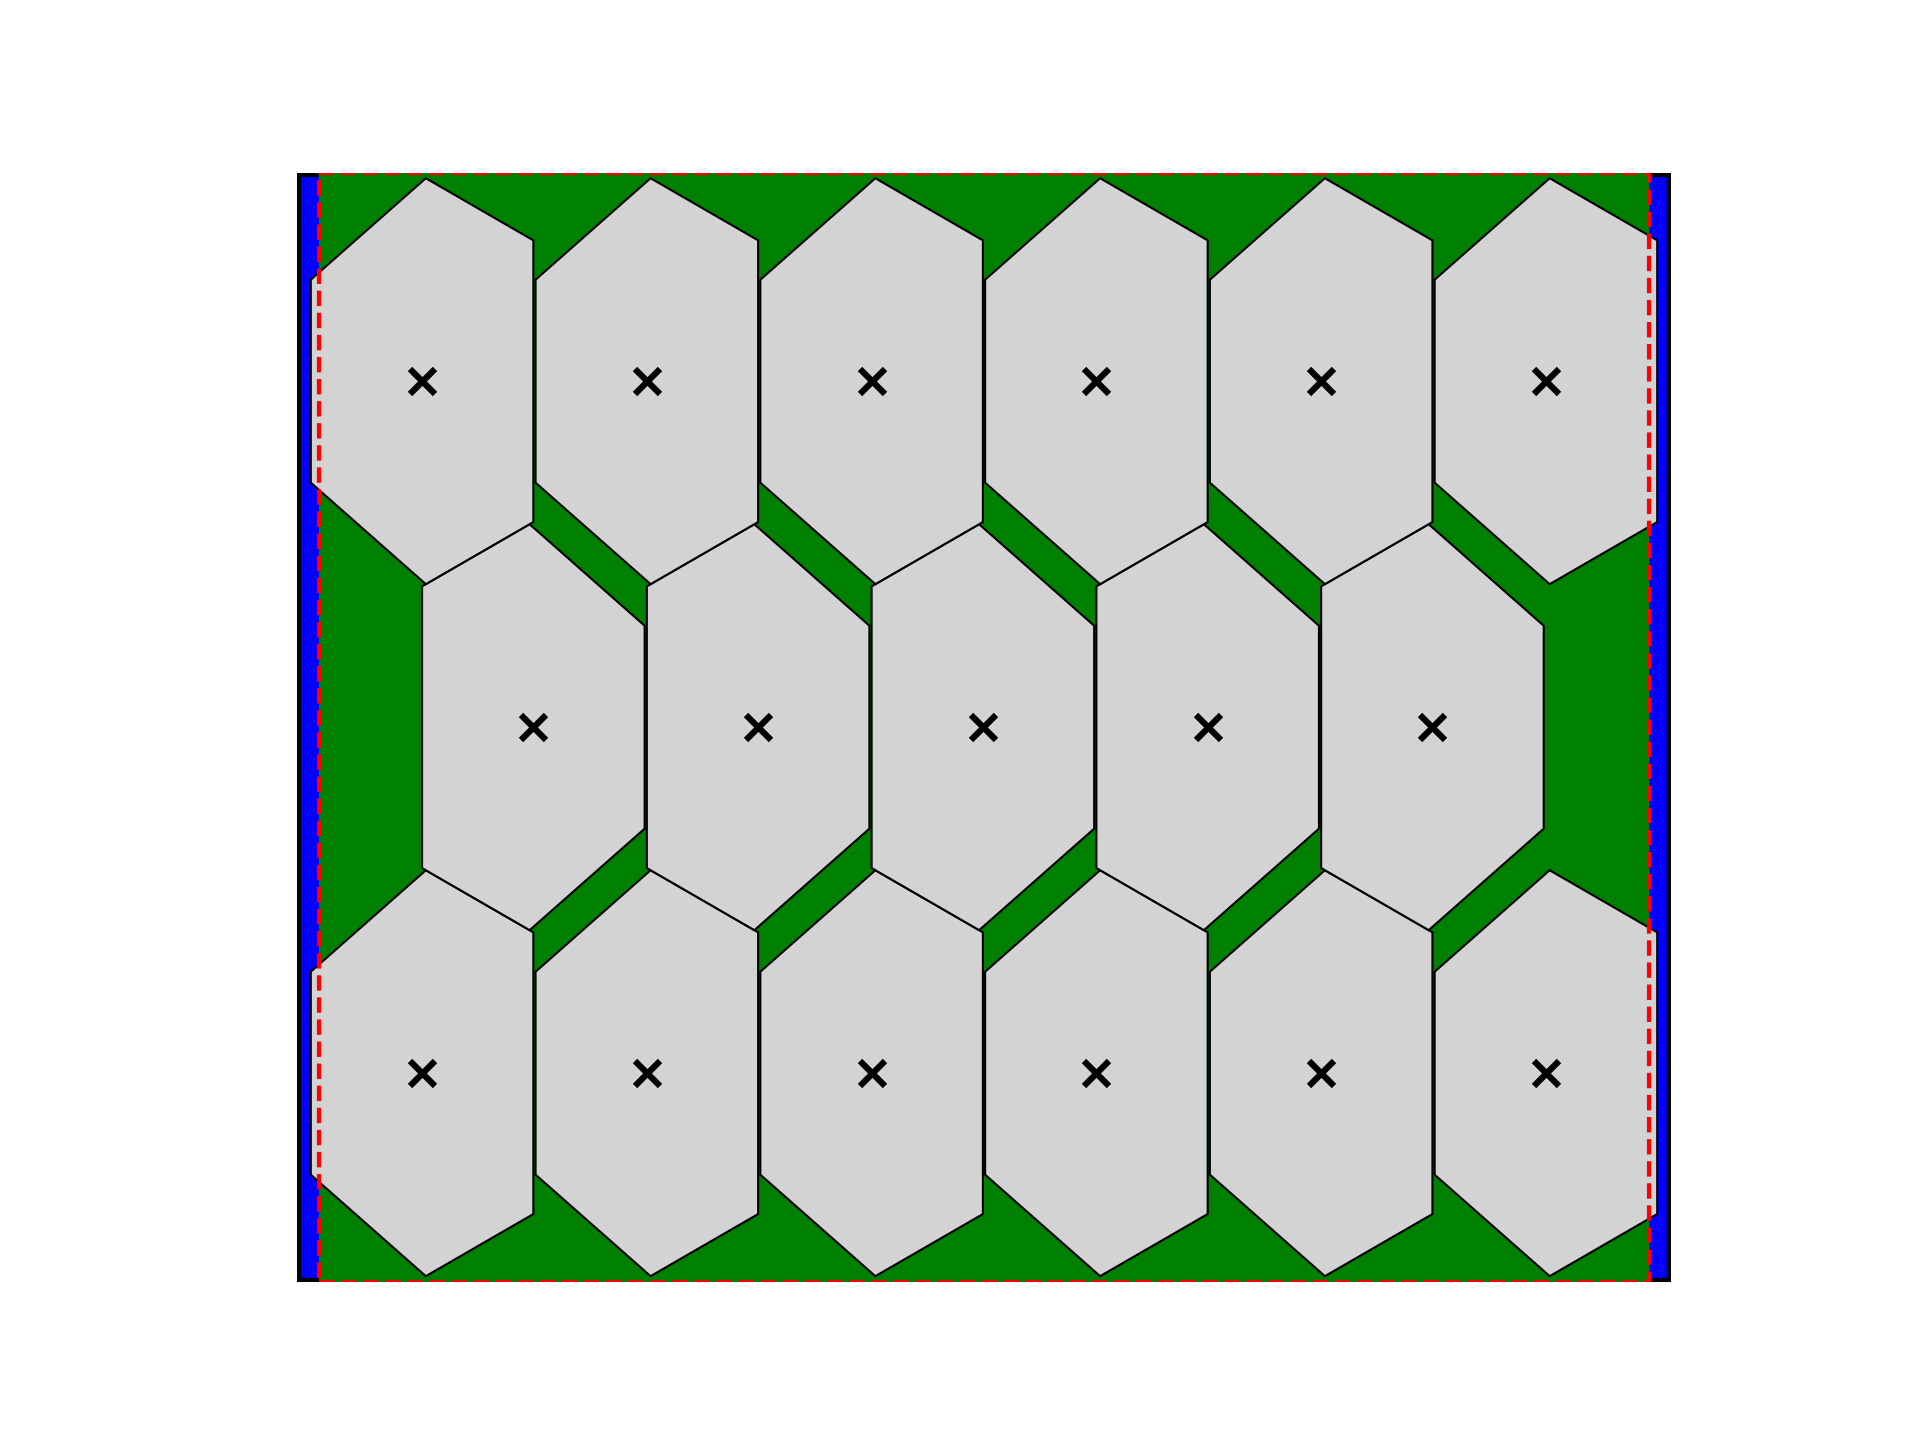
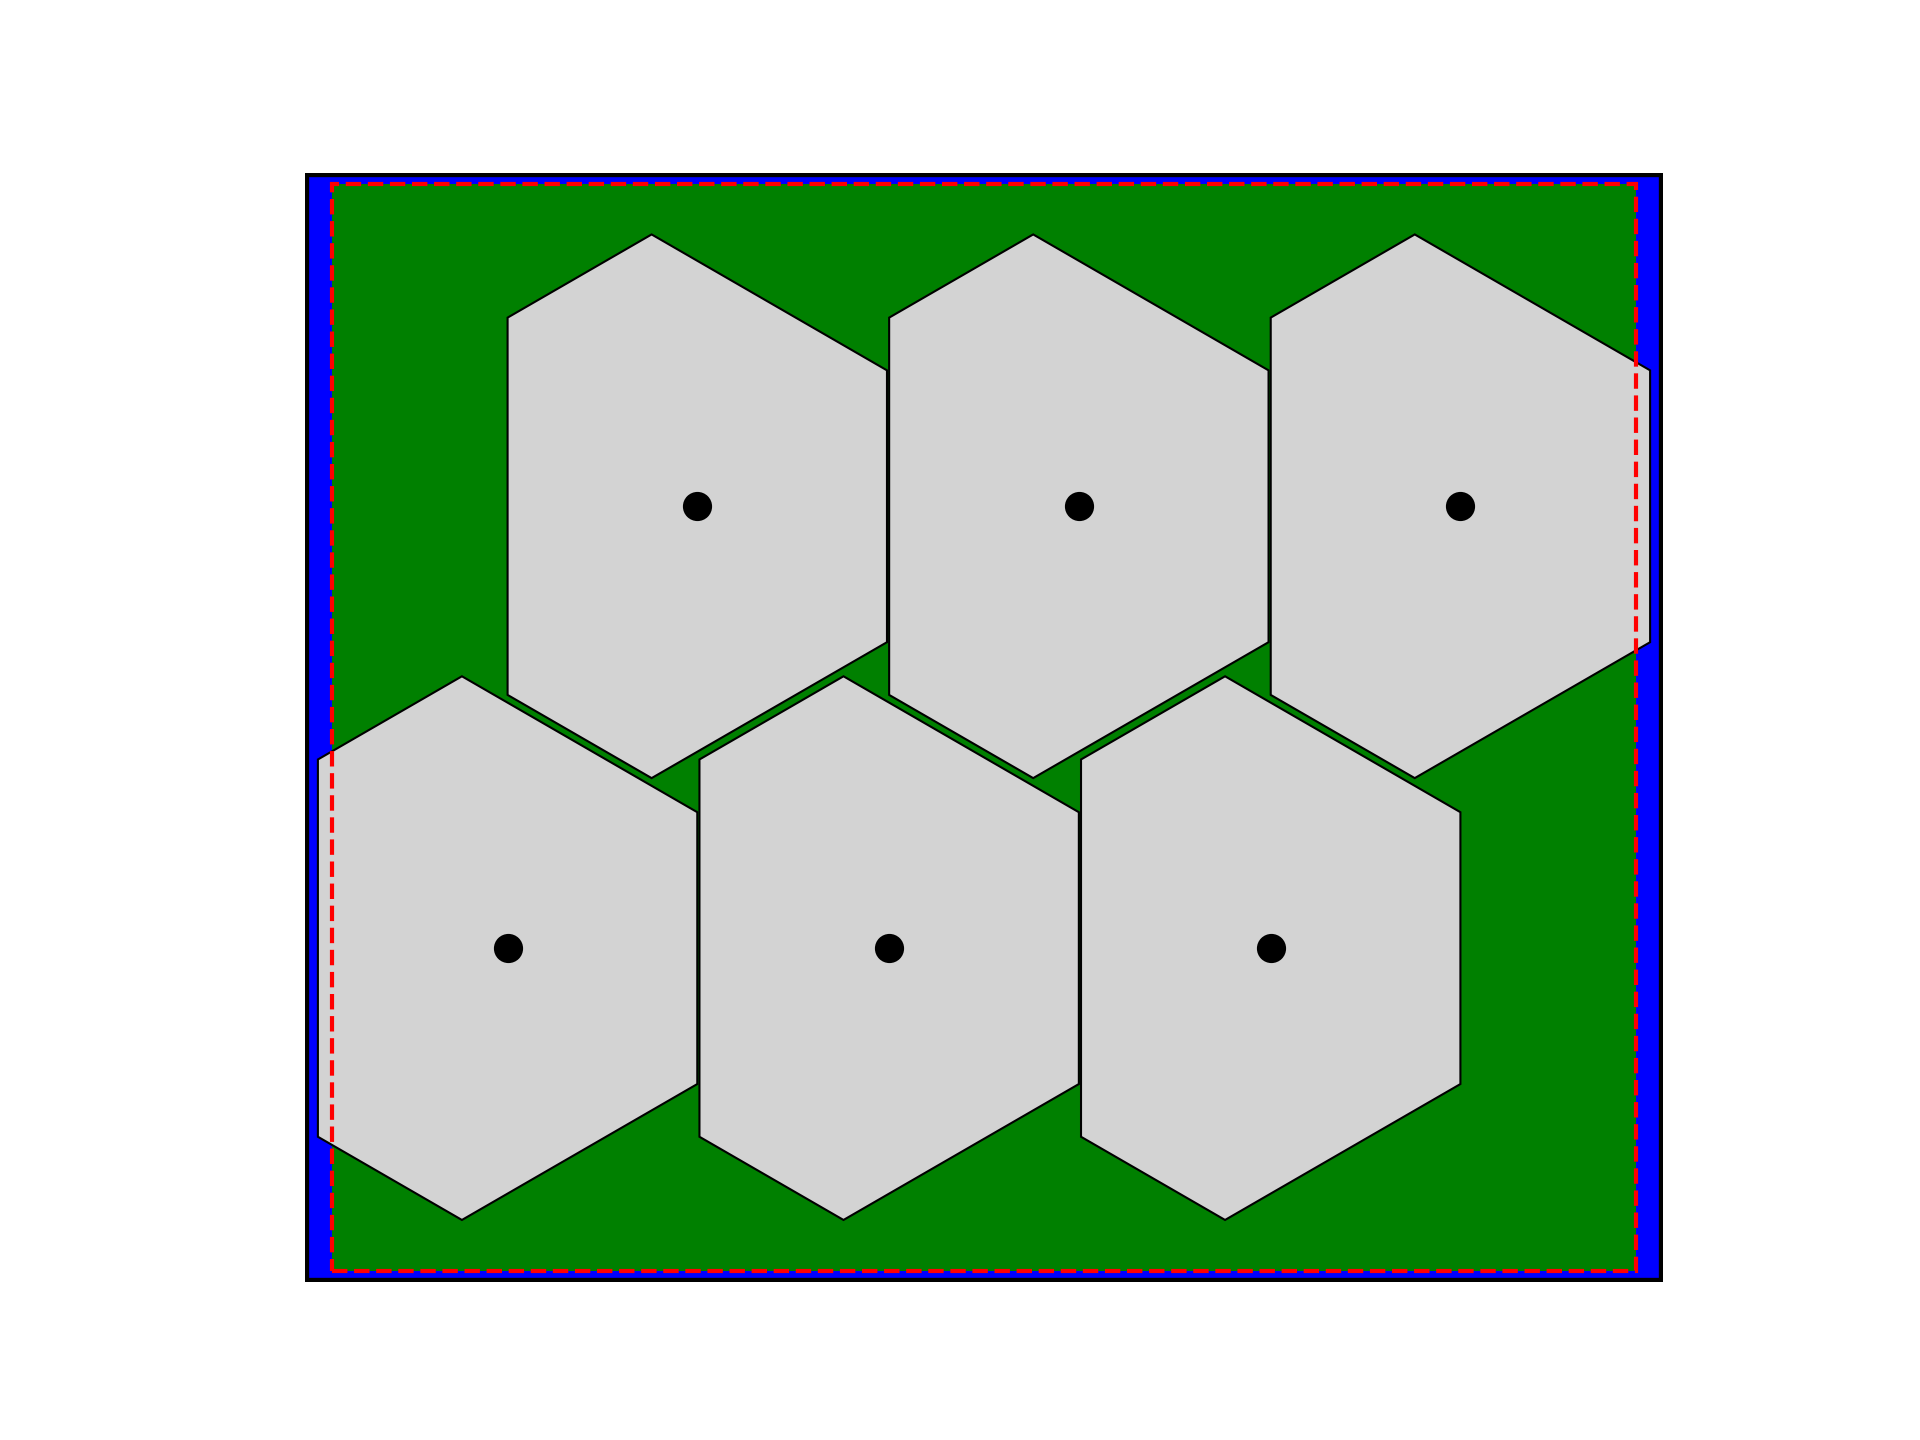
updates

diff --git a/GUI_main.py b/GUI_main.py
@@ -11,6 +11,7 @@ from folder_1.Draw import draw_hexagons as draw_hexs
 from folder_3.Draw import draw_trapezes as draw_traps
 from folder_4.Draw import draw_asymHex as draw_asymHexs
 import csv
+import shared_variable as sv
 
 
 
@@ -23,7 +24,7 @@ class App:
         best_compo = ""
 
         if float(dest) >= 30 and float(dest)  <= 40:
-            compo_list = ["5-6-7-8-7-6-5", "6-7-8-9-8-7-6"]
+            compo_list = ["5-6-7-8-7-6-5", "6-7-8-9-8-7-6", "4-5-6-5-4"]
         elif float(dest)  > 40 and float(dest)  <= 50:
             compo_list = ["6-7-8-9-8-7-6", "5-6-7-8-7-6-5", "4-5-6-5-4"]
         elif float(dest)  > 50 and float(dest)  <= 70:
@@ -73,7 +74,7 @@ class App:
             writer.writerow(['x', 'y'])
 
             for hexagon in hexagons:
-                writer.writerow([round(hexagon.origin_x - 2, 2), round(hexagon.origin_y - 0.5, 2)])
+                writer.writerow([round(hexagon.origin_x - sv.start_originx, 2), round(hexagon.origin_y - sv.start_originy, 2)])
 
     def rectangle_test(self, weight, dest, console_log, total_actual_hexagon):
 
@@ -131,7 +132,7 @@ class App:
             writer.writerow(['x', 'y'])
 
             for rectangle in rectangles:
-                writer.writerow([round(rectangle.center_x - 2, 2), round(rectangle.center_y - 0.5, 2)])
+                writer.writerow([round(rectangle.center_x - sv.start_originx, 2), round(rectangle.center_y - sv.start_originy, 2)])
     
     def actual_hexagon_test(self, weight, dest, console_log, actual_compo):
         
@@ -167,7 +168,7 @@ class App:
         elif float(dest)  > 40 and float(dest)  <= 50:
             compos = ["9-8-7-6", "8-7-6-5", "6-5-4"]
         elif float(dest)  > 50 and float(dest)  <= 70:
-            compos = ["5-4-3", "6-5-4", "3-4-5-4"]
+            compos = ["5-4-3", "6-5-4"]
         elif float(dest)  > 70:
             compos = ["4-3"]
         
@@ -217,7 +218,7 @@ class App:
             writer.writerow(['x', 'y'])
 
             for trapeze in trapezes:
-                writer.writerow([round(trapeze.origin_x - 2, 2), round(trapeze.origin_y - 0.5, 2)]) 
+                writer.writerow([round(trapeze.origin_x - sv.start_originx, 2), round(trapeze.origin_y - sv.start_originy, 2)]) 
         
         
 
@@ -257,7 +258,7 @@ class App:
         # Create console log
         self.console_log = tk.Text(master)
         self.console_log.config(state="disabled")
-        self.console_log.config(width=70, height=20)
+        self.console_log.config(width=100, height=20)
         self.console_log.place(x=0, y=130)
 
     def calculate_compositions(self):
@@ -271,12 +272,12 @@ class App:
         weight = float(diameters_float[3])
         total_actual_hexagon = self.actual_hexagon_test(weight, diameter, self.console_log, actual_compo)
         self.hexagon_test(weight, diameter, self.console_log, total_actual_hexagon)
-        self.rectangle_test(weight, diameter, self.console_log, total_actual_hexagon)
+        #self.rectangle_test(weight, diameter, self.console_log, total_actual_hexagon)
         self.trapezoid_test(weight, diameter, self.console_log, total_actual_hexagon)
         self.asym_hexagon_test(weight, diameter, self.console_log, total_actual_hexagon)
 
     def show_images_function(self):
-        self.show_images("images/hex.png", "images/rect.png", "images/hex_actual.png", "images/trap.png")
+        self.show_images("images/hex.png", "images/asym.png", "images/hex_actual.png", "images/trap.png")
 
     def read_diameters_from_file(self):
             
@@ -337,7 +338,7 @@ class App:
         new_window.mainloop()
 
     def reload_images_function(self):
-        self.reload_images("images/hex.png", "images/rect.png", "images/hex_actual.png", "images/trap.png")
+        self.reload_images("images/hex.png", "images/asym.png", "images/hex_actual.png", "images/trap.png")
 
     def reload_images(self, image_path_1, image_path_2, image_path_3, image_path_4, max_size=(480, 400)):
 
@@ -371,7 +372,7 @@ class App:
 
     
 root = tk.Tk()
-root.geometry("580x500")
+root.geometry("680x500")
 root.resizable(False, False)
 app = App(root)
 root.mainloop()

diff --git a/folder_4/Main.py b/folder_4/Main.py
@@ -17,34 +17,50 @@ def place_asym_hexs(B, b, b_med, h_min, h_max, radius):
     
     iter = 0
     
+    max_origin_x = 0
+    max_origin_y = 0
+    
     while True:
         
-        
-        origin[0] = h_max/2 + iter%2*(h_max/2)
+        if iter % 2 == 0:
+            origin[0] = h_max/2
+        else:
+            origin[0] = h_max
         
         while True:
-            if rotate180:
-                asym_hexs.append(t.AsymHex(B, b, b_med, h_min, h_max, origin[0], origin[1]))
-                asym_hexs[-1].rotate180()
-            else:
+            if  rotate180:
                 asym_hexs.append(t.AsymHex(B, b, b_med, h_min, h_max, origin[0], origin[1]))
                 
+            else:
+                asym_hexs.append(t.AsymHex(B, b, b_med, h_min, h_max, origin[0], origin[1]))
+                asym_hexs[-1].rotate180()
+                
+            if max_origin_x < origin[0]:
+                max_origin_x = origin[0]
+                
             if origin[0] + h_max + h_max/2 + inter > rect_width:
-                rotate180 = not rotate180
                 break
             else:
                 origin[0] += h_max + inter
-        if origin[1] + B - (B-b_med)/2 + inter > rect_height:
+                
+            
+                
+                
+        if max_origin_y < origin[1]:
+            max_origin_y = origin[1]
+                
+        if origin[1] + B + B/2 - 1.25*(B-b_med)/2 + inter > rect_height:
             break
         else:
-            origin[1] += B - (B-b_med)/2 + inter
+            origin[1] += B - 1.25*(B-b_med)/2  + inter
 
+        
+            
         iter += 1
         
-    last_origin = (asym_hexs[-1].origin_x, asym_hexs[-1].origin_y)
     
-    slack_y = rect_height - last_origin[1] - B/2
-    slack_x = rect_width - last_origin[0] - h_max/2
+    slack_y = rect_height - max_origin_y - B/2
+    slack_x = rect_width - max_origin_x - h_max/2
     
     for asym_hex in asym_hexs:
         asym_hex.update_points(slack_x/2, slack_y/2)

diff --git a/folder_2/Draw.py b/folder_2/Draw.py
@@ -32,7 +32,7 @@ def draw_rectangles(rectangles):
         rectangle_polygon = Polygon(verts, fill=True, facecolor='#D3D3D3', edgecolor='black', linewidth=0.5)
         ax.add_patch(rectangle_polygon)
         # Plotting the dot
-        plt.scatter(rectangle.center_x, rectangle.center_y, color='black', marker='x')
+        plt.scatter(rectangle.center_x, rectangle.center_y, color='black', marker='o')
         
     rect_2 = Rectangle((sv.start_originx, sv.start_originy), 120, 100, linewidth=1, facecolor='none', edgecolor='red', linestyle='--')
     ax.add_patch(rect_2)    

diff --git a/folder_3/CalculateDimension.py b/folder_3/CalculateDimension.py
@@ -50,14 +50,6 @@ def calculate_trapeze_dimensions(radius, compo):
         h_min = 1 * radius
         return m.main(B_max, b_min, b_med, h_min, h_max, 3*radius)
     
-    if compo == "3-4-5-4":
-        B_max = 10.312 * radius
-        b_min = 5.156 * radius
-        b_med = 9.156 * radius
-        h_max = 5.654 * radius
-        h_min = 2.732 * radius
-
-        return m.main(B_max, b_min, b_med, h_min, h_max, 2*radius)
         
     
     

diff --git a/folder_1/Draw.py b/folder_1/Draw.py
@@ -33,7 +33,7 @@ def draw_hexagons(hexagons, isActual):
         hexagon_polygon = Polygon(verts, fill=True, facecolor='#D3D3D3', edgecolor='black', linewidth=0.5)
         ax.add_patch(hexagon_polygon)
         # Plotting the dot
-        plt.scatter(hexagon.origin_x, hexagon.origin_y, color='black', marker='x')
+        plt.scatter(hexagon.origin_x, hexagon.origin_y, color='black', marker='o')
         
     
     

diff --git a/folder_4/Draw.py b/folder_4/Draw.py
@@ -33,7 +33,7 @@ def draw_asymHex(hexagons, isActual):
         hexagon_polygon = Polygon(verts, fill=True, facecolor='#D3D3D3', edgecolor='black', linewidth=0.5)
         ax.add_patch(hexagon_polygon)
         # Plotting the dot
-        plt.scatter(hexagon.origin_x, hexagon.origin_y, color='black', marker='x')
+        plt.scatter(hexagon.origin_x, hexagon.origin_y, color='black', marker='o')
         
     
     

diff --git a/folder_3/Draw.py b/folder_3/Draw.py
@@ -29,7 +29,7 @@ def draw_trapezes(trapezes):
         trapeze_polygon = Polygon(verts, fill=True, facecolor='#D3D3D3', edgecolor='black', linewidth=0.5)
         ax.add_patch(trapeze_polygon)
         # Plotting the dot
-        plt.scatter(trapeze.origin_x, trapeze.origin_y, color='black', marker='x')
+        plt.scatter(trapeze.origin_x, trapeze.origin_y, color='black', marker='o')
         
         
 

diff --git a/folder_4/CalculateDimension.py b/folder_4/CalculateDimension.py
@@ -6,7 +6,7 @@ def calculate_asymHex_dimensions(radius, compo):
         B_max = 10.312 * radius
         b_min = 5.156 * radius
         b_med = 7.156 * radius
-        h_max = 5.654 * radius
+        h_max = 7.196 * radius
         h_min = 2.732 * radius
 
         return m.main(B_max, b_min, b_med, h_min, h_max, 2*radius)

diff --git a/shared_variable.py b/shared_variable.py
@@ -1,7 +1,7 @@
 
 
-rect_width = 124
-rect_height = 100
+rect_width = 125
+rect_height = 102
 
 start_originx = (rect_width - 120)/2
 start_originy = (rect_height - 100)/2
